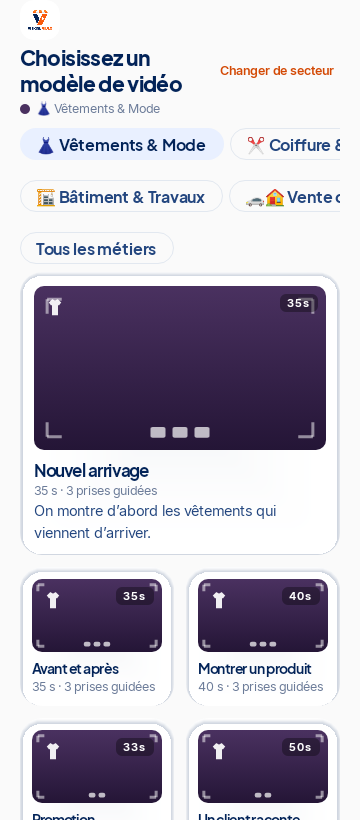
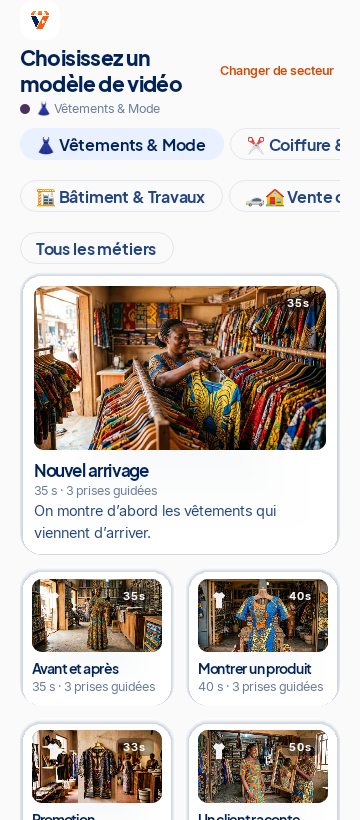
D34 Lot 6 étendu + recaptures catalogue 30/30 (D34-29..32, D34-01..03)
- D34Lot6 : +4 tests (immo, restauration, shops, mode) — les 6 secteurs
  ont maintenant leur capture catalogue avec les aperçus photographiques
  réels intégrés : D34-29/30/31/32 (variance ~5800 = tuiles photo,
  contre ~170-880 pour l'UI seule)
- D34-01/02/03 RECAPTURÉS avec le mécanisme 30/30 complet (D34-02 :
  64 Ko -> 297 Ko — le secteur Mode affiche désormais ses 5 aperçus
  photo, lot 3) ; D34-01 (état secteur perdu) inchangé par nature
- Ordre fondateur §6 respecté : capture catalogue définitive APRÈS la
  complétude 30/30, aucune capture intermédiaire présentée comme finale

diff --git a/feature-catalog/src/test/kotlin/video/vitrine/feature/catalog/D34Lot6CatalogApercuVisualCheckTest.kt b/feature-catalog/src/test/kotlin/video/vitrine/feature/catalog/D34Lot6CatalogApercuVisualCheckTest.kt
@@ -111,6 +111,102 @@ class D34Lot6CatalogApercuVisualCheckTest {
         compose.onAllNodesWithText(metaFormatte(coiffure.first())).onFirst().assertIsDisplayed()
         compose.onRoot().save("D34-17_catalogue-coiffure-apercus_APRES.png")
     }
+
+    // ---- D34-29 : catalogue Immo/Auto — 5 aperçus photographiques rendus ----
+    @Test
+    fun catalogue_immo_rend_les_apercus_integres() {
+        val immo = gabaritsDuSecteur("immo_auto")
+        check(immo.size == 5) { "attendu 5 gabarits Immo/Auto, trouvé ${immo.size}" }
+        immo.forEach { g ->
+            check(ApercuGabarit.resPour(g.id) != null) {
+                "aperçu manquant dans ApercuGabarit pour ${g.id}"
+            }
+        }
+        compose.setContent {
+            VitrineTheme {
+                CatalogScreen(
+                    manifest = null,
+                    offline = false,
+                    initialSector = Sector.IMMO_AUTO,
+                    gabarits = immo,
+                )
+            }
+        }
+        compose.onAllNodesWithText(metaFormatte(immo.first())).onFirst().assertIsDisplayed()
+        compose.onRoot().save("D34-29_catalogue-immo-apercus_APRES.png")
+    }
+
+    // ---- D34-30 : catalogue Restauration — 5 aperçus photographiques rendus ----
+    @Test
+    fun catalogue_restauration_rend_les_apercus_integres() {
+        val resto = gabaritsDuSecteur("restaurants_maquis")
+        check(resto.size == 5) { "attendu 5 gabarits Restauration, trouvé ${resto.size}" }
+        resto.forEach { g ->
+            check(ApercuGabarit.resPour(g.id) != null) {
+                "aperçu manquant dans ApercuGabarit pour ${g.id}"
+            }
+        }
+        compose.setContent {
+            VitrineTheme {
+                CatalogScreen(
+                    manifest = null,
+                    offline = false,
+                    initialSector = Sector.RESTAURATION,
+                    gabarits = resto,
+                )
+            }
+        }
+        compose.onAllNodesWithText(metaFormatte(resto.first())).onFirst().assertIsDisplayed()
+        compose.onRoot().save("D34-30_catalogue-restauration-apercus_APRES.png")
+    }
+
+    // ---- D34-31 : catalogue Shops — 5 aperçus photographiques rendus ----
+    @Test
+    fun catalogue_shops_rend_les_apercus_integres() {
+        val shops = gabaritsDuSecteur("shops_small_business")
+        check(shops.size == 5) { "attendu 5 gabarits Shops, trouvé ${shops.size}" }
+        shops.forEach { g ->
+            check(ApercuGabarit.resPour(g.id) != null) {
+                "aperçu manquant dans ApercuGabarit pour ${g.id}"
+            }
+        }
+        compose.setContent {
+            VitrineTheme {
+                CatalogScreen(
+                    manifest = null,
+                    offline = false,
+                    initialSector = Sector.COMMERCE,
+                    gabarits = shops,
+                )
+            }
+        }
+        compose.onAllNodesWithText(metaFormatte(shops.first())).onFirst().assertIsDisplayed()
+        compose.onRoot().save("D34-31_catalogue-shops-apercus_APRES.png")
+    }
+
+    // ---- D34-32 : catalogue Mode — 5 aperçus photographiques rendus ----
+    @Test
+    fun catalogue_mode_rend_les_apercus_integres() {
+        val mode = gabaritsDuSecteur("vetements_mode")
+        check(mode.size == 5) { "attendu 5 gabarits Mode, trouvé ${mode.size}" }
+        mode.forEach { g ->
+            check(ApercuGabarit.resPour(g.id) != null) {
+                "aperçu manquant dans ApercuGabarit pour ${g.id}"
+            }
+        }
+        compose.setContent {
+            VitrineTheme {
+                CatalogScreen(
+                    manifest = null,
+                    offline = false,
+                    initialSector = Sector.MODE,
+                    gabarits = mode,
+                )
+            }
+        }
+        compose.onAllNodesWithText(metaFormatte(mode.first())).onFirst().assertIsDisplayed()
+        compose.onRoot().save("D34-32_catalogue-mode-apercus_APRES.png")
+    }
 }
 
 private fun SemanticsNodeInteraction.save(name: String) {
